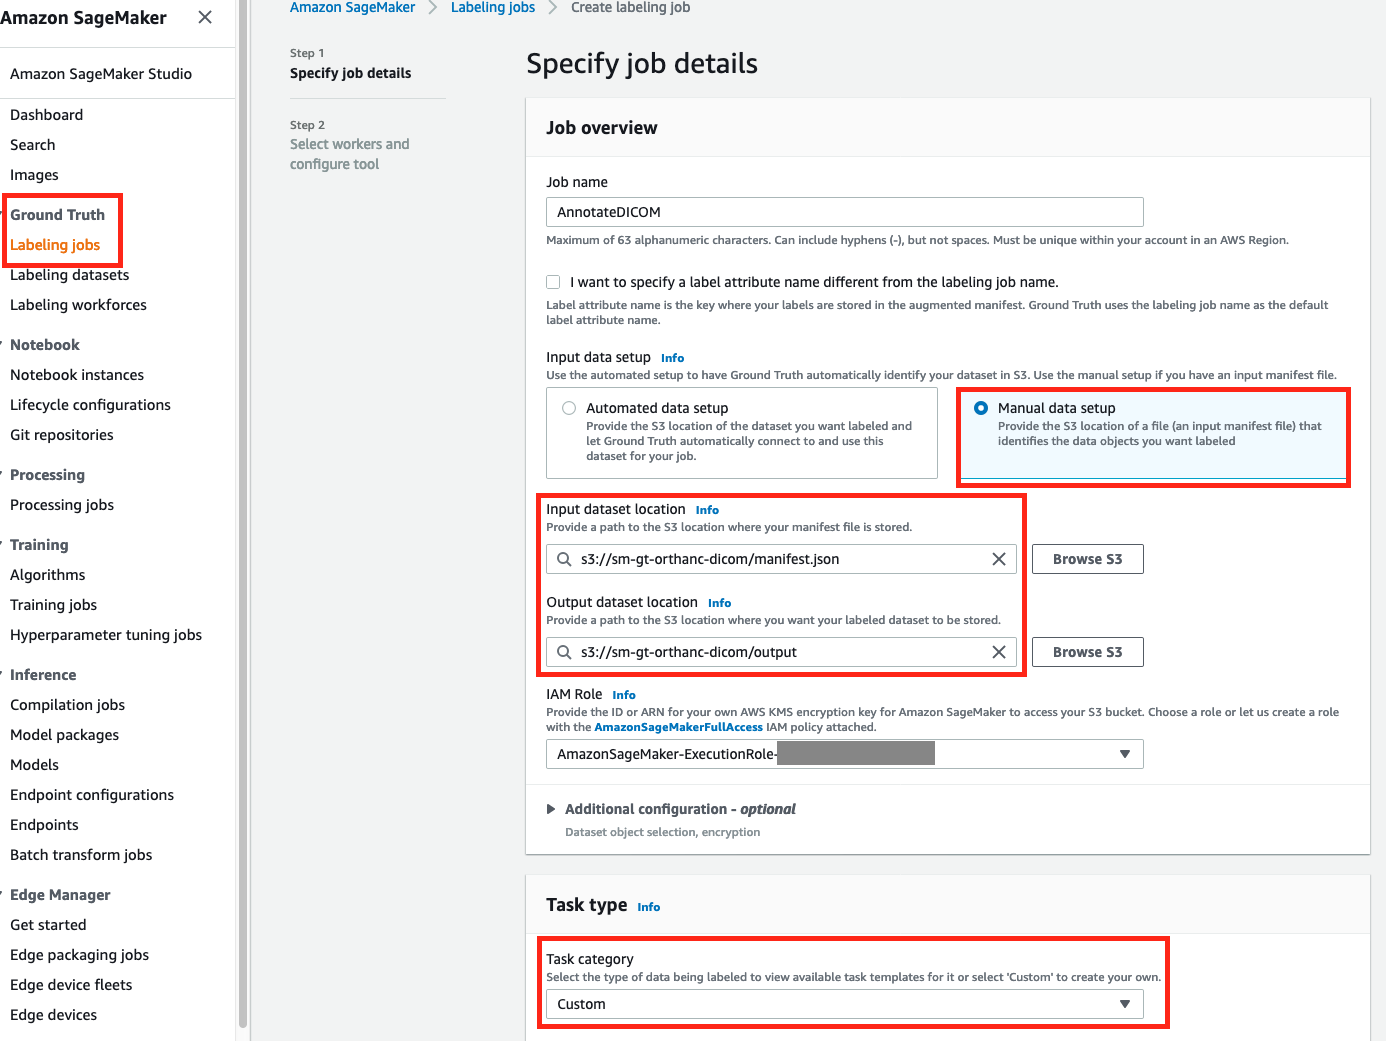
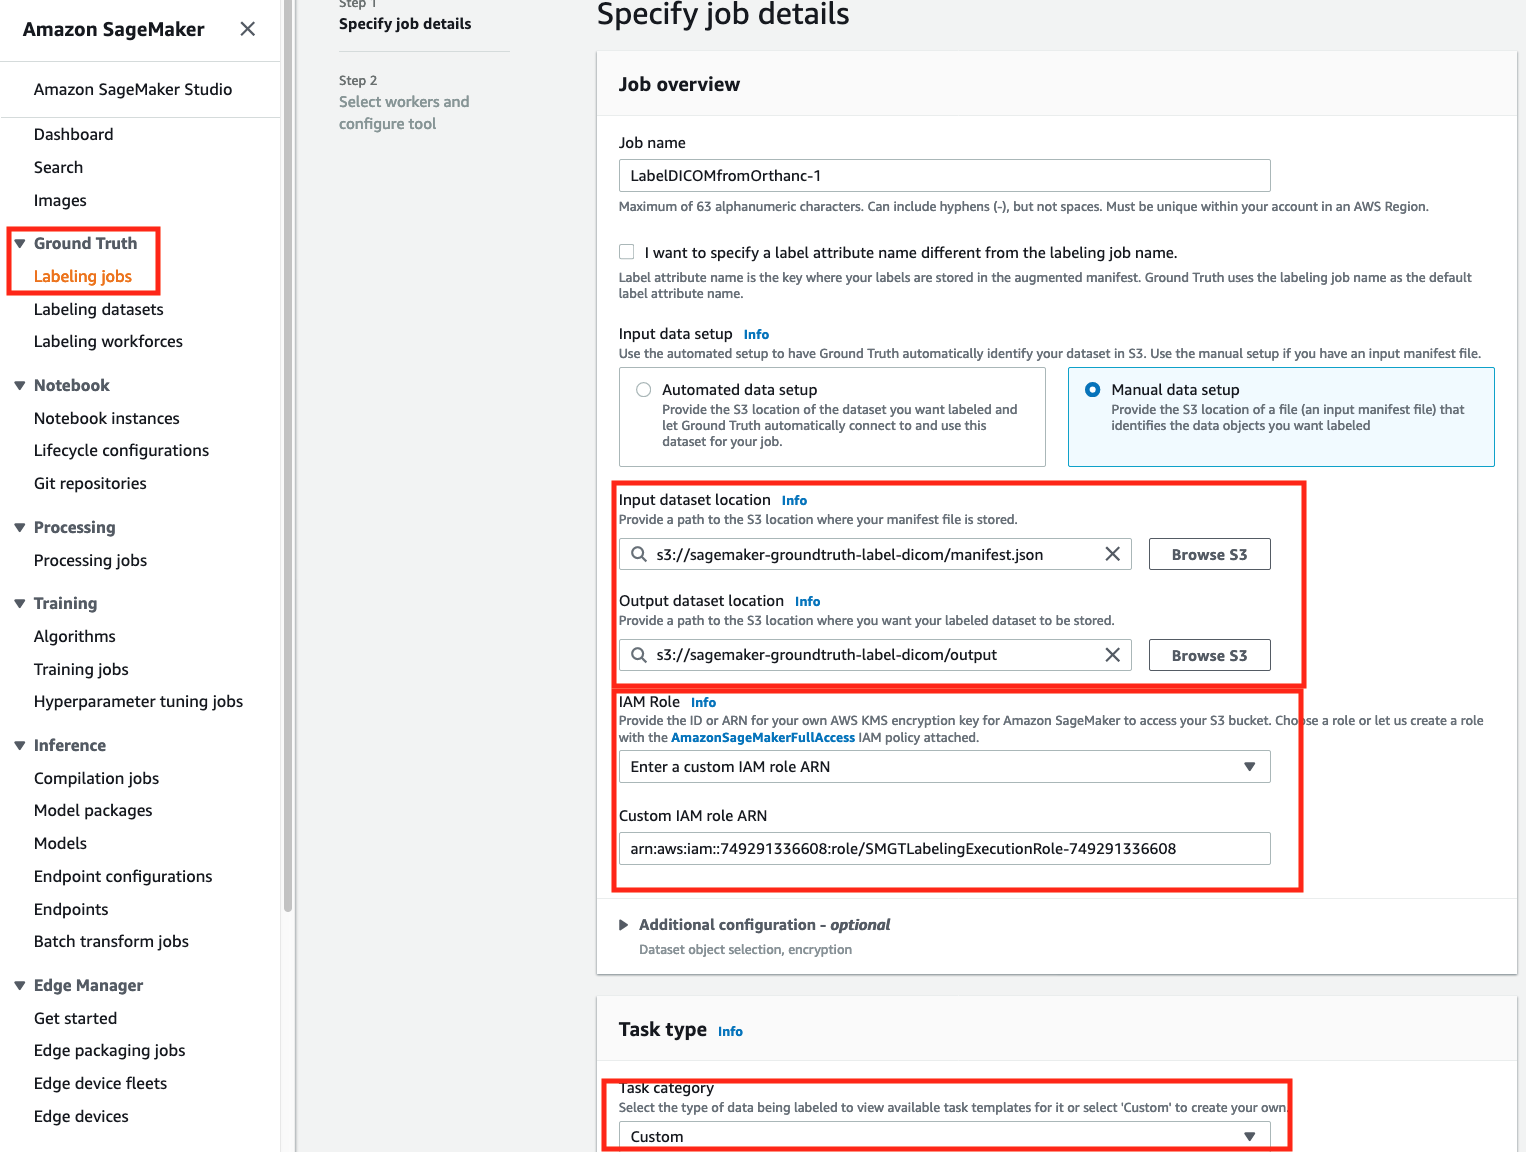
READMD

Changed region(s): [[0.0, 0.0, 0.9928, 0.9837], [0.3723, 0.8607, 0.8687, 1.0], [0.0, 0.6455, 0.1241, 0.9837]]

diff --git a/README.md b/README.md
@@ -8,12 +8,13 @@ You will need two public subnets and two private subnets in a given Virtual Priv
 
 ### Deploy Orthanc DICOM Server on AWS ECS
 
-To deploy the CloudFormation (CFN) on AWS console, using 1-click deployment button:
+To deploy the CloudFormation (CFN) on AWS console, using 1-click deployment button:  
 [![launchstackbutton](Figures/launchstack.png)](https://console.aws.amazon.com/cloudformation/home?region=us-east-1#/stacks/create/template?stackName=OrthancOnAWSStack&templateURL=https://orthanc-on-aws.s3.amazonaws.com/orthanc-ec2-rds-cfn-tempalte.yaml)
 
 The required information will be EC2 Key pair and network infrastructure.
 
-After the CFN stack is successfully created, the Orthanc endpoint URL will be available in the Outputs tab like ![this](Figures/CFNoutputs.png)
+After the CFN stack is successfully created, the Orthanc endpoint URL will be available in the Outputs tab like:  
+![this](Figures/CFNoutputs.png)
 
 ### Upload DICOM images to Orthanc 
 
@@ -35,23 +36,37 @@ The manifest.json file will look at [this](https://github.com/aws-samples/annota
 
 ### Deploy the pre and post labeling Lambda functions
 
-click the button below to deploy both PreLabelTaskLambda and PostLabelTaskLambda functions
+click the button below to deploy both PreLabelTaskLambda and PostLabelTaskLambda functions:  
 [![launchstackbutton](Figures/launchstack.png)](https://console.aws.amazon.com/cloudformation/home?region=us-east-1#/stacks/create/template?stackName=SageMakerGroundTruthLambdaFunctions&templateURL=https://orthanc-on-aws.s3.amazonaws.com/orthanc-ec2-rds-cfn-tempalte.yaml)
 
 Fill the parameter PreLabelLambdaSourceEndpointURL with the Orthanc endpoint URL from previous step.
 
+Take a note of the outputs of CFN deployment, including SMGTLabelingExecutionRole and SageMakerAnnotationS3Bucket names:  
+![smcfnoutputs](Figures/SMCFNoutputs.png)
+
 ### Create Custom Label Job in SageMaker GroundTruth
 
-- Create a S3 bucket and upload the input manifest.json file generated earlier.    
-- Create a SageMaker GroundTruth Labeling Job, and specify the input and output data locations at Step 1 of job creation.  
+- Upload the input manifest.json file generated earlier to the SageMakerAnnotationS3Bucket 
+- Create a SageMaker GroundTruth Labeling Job: at step 1 specify the input and output data locations in SageMakerAnnotationS3Bucket plus the SMGTLabelingExecutionRole as IAM role for labeling job
 ![smgtjobstep1](Figures/sm-gt-job-details.png) 
-- Copy the [content in template.liquid.html](https://github.com/aws-samples/annotate-medical-images-in-dicom-server-and-build-ml-models-on-amazon-sagemaker/blob/main/sagemaker-groundtruth/template.liquid.html) to the Custom Template text field as well as configure the pre-labeling and post-labeling Lambda functions deployed earlier.
+- Copy the [content in template.liquid.html](https://github.com/aws-samples/annotate-medical-images-in-dicom-server-and-build-ml-models-on-amazon-sagemaker/blob/main/sagemaker-groundtruth/template.liquid.html) to the Custom Template text field as well as configure the gt-prelabel-task-lambda and gt-postlabel-task-lambda functions deployed earlier.
 ![smgtjobstep2](Figures/sm-gt-job-configure-custom-label.png)
 
 
 After configuring the custom labeling task, click on the Preview button, you will see the following preview
 ![smgtpreview](Figures/sm-gt-job-preview.png)
 
+
+If you created a private workforce, you can go to the Labeling Workforces tab and find the annotation console link:  
+![workforce](Figures/workforces.png)
+
+The annotator will be able to see the task created like:  
+![startworking](Figures/startworking.png)
+
+### Train and deploy model using SageMaker Notebook Instance
+
+The CFN deployment earlier also create a SageMaker notebook instance, open the Jupyter notebook to train and deploy machine learning models using the annotated datasets from SageMaker GroundTruth labeling job:  
+![smnotebook](Figures/SMnotebook.png)
 
 ## Security
 

diff --git a/nginx-orthanc-plugins-container/README.md b/nginx-orthanc-plugins-container/README.md
@@ -1,7 +1,8 @@
 
 ## Orthanc on AWS 
 
-Here is the architecture diagram of Orthanc on AWS by default ![diagram](../Figures/orthanc-on-aws.jpg) 
+Here is the architecture diagram of default deployment of the Orthanc on AWS:  
+![diagram](../Figures/orthanc-on-aws.jpg) 
 
 The single container instance and single DB instance have been tested well with Amazon SageMaker GroundTruth labeling job. 
 
@@ -11,7 +12,8 @@ Alternatively, you can build docker container `docker build -t <tag> .` and push
 
 After pushing the container image to ECR, copy the image URI (like <AWS Account ID>.dkr.ecr.<AWS Region>.amazonaws.com/nginx-orthanc-plugins]) that will be used in the Cloudformation deployment.
 
-You can deploy the CloudFormation (CFN) stack on AWS console using `orthanc-ec2-rds-cfn-tempalte.yaml` template in this folder, by filling up the parameters like ![this](../Figures/CFNdeployment.png) 
+You can deploy the CloudFormation (CFN) stack on AWS console using `orthanc-ec2-rds-cfn-tempalte.yaml` template in this folder, by filling up the parameters like:   
+![this](../Figures/CFNdeployment.png) 
 
 Or you can deploy the CFN stack using AWS CLI:
 
